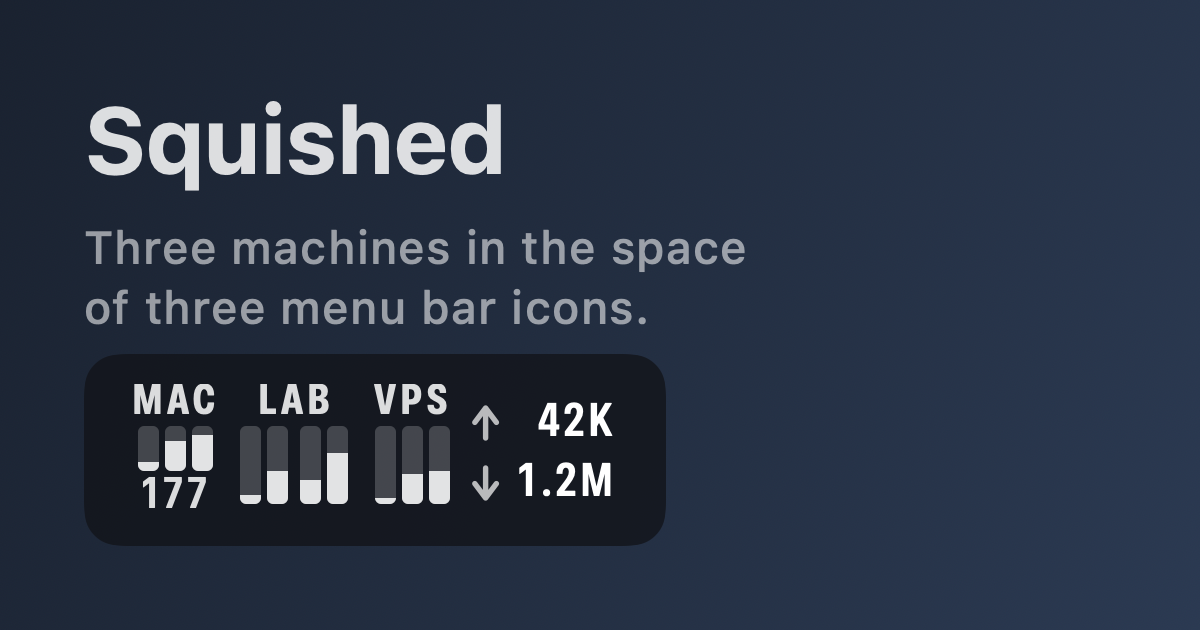
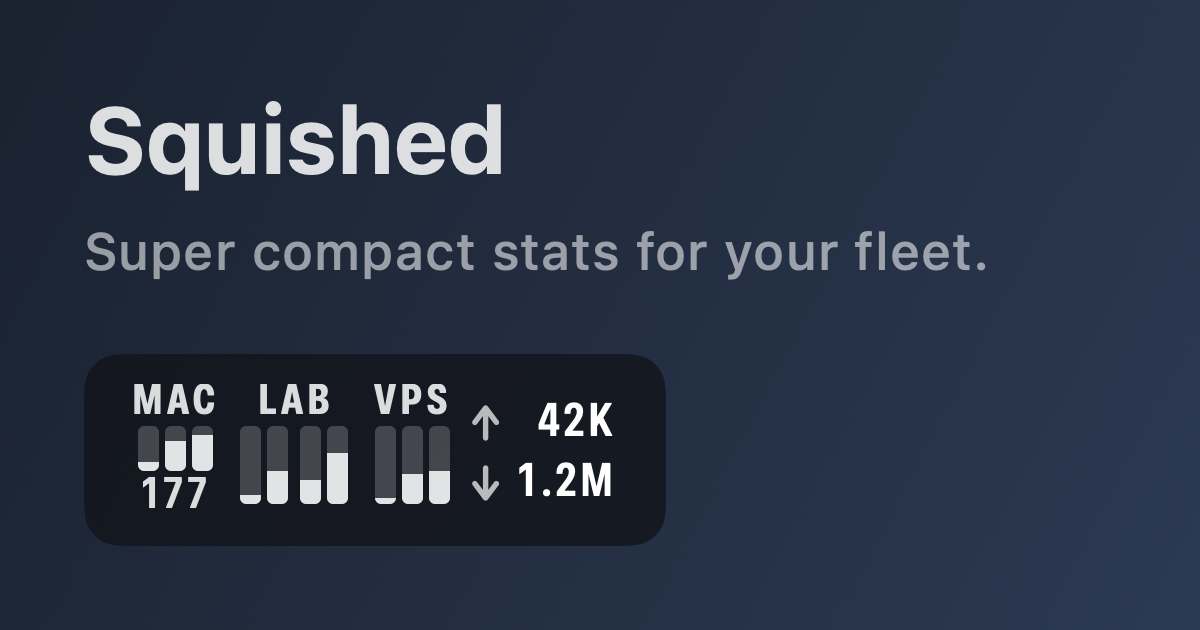
Lead with compact stats for your fleet

Changed region(s): [[0.0617, 0.3619, 0.8325, 0.5127]]

diff --git a/site/public/index.html b/site/public/index.html
@@ -13,8 +13,8 @@
 <link rel="apple-touch-icon" href="/apple-touch-icon.png">
 <meta property="og:type" content="website">
 <meta property="og:site_name" content="Squished">
-<meta property="og:title" content="Squished: three machines in the space of three menu bar icons">
-<meta property="og:description" content="Your menu bar is running out of room. Squished is a tiny macOS system monitor for your Mac and the Linux machines you SSH into. Free and open source.">
+<meta property="og:title" content="Squished: super compact stats for your fleet">
+<meta property="og:description" content="Your Mac and your Linux servers, in the space of three menu bar icons. A free, open-source system monitor for macOS.">
 <meta property="og:url" content="https://squished.andrewkim.me/">
 <meta property="og:image" content="https://squished.andrewkim.me/img/og.png">
 <meta property="og:image:width" content="1200">
@@ -217,9 +217,9 @@
 </header>
 
 <main>
-  <h1>Your menu bar is running out of room</h1>
-  <p class="sub">Squished fits three machines in the space of three icons.</p>
-  <p class="lede">Squished is a free, open-source system monitor for macOS. It shows CPU, memory and disk for your Mac and the Linux machines you already SSH into (a home server, a NAS, a VPS). Nothing gets installed on the servers.</p>
+  <h1>Super compact stats for your fleet</h1>
+  <p class="sub">Your Mac and your Linux servers, in the space of three menu bar icons.</p>
+  <p class="lede">Menu bar space runs out fast, and a system monitor is often one of the widest things in it. Squished is a free, open-source monitor for macOS that shows CPU, memory and disk for your Mac and the Linux machines you already SSH into (a home server, a NAS, a VPS). Nothing gets installed on the servers.</p>
   <div class="cta">
     <a class="button" href="https://github.com/andrewk17/squished">Get it on GitHub</a>
     <small>Free, MIT license. macOS 14 or later.</small>

diff --git a/Sources/Squished/UI/ReadmeImageRenderer.swift b/Sources/Squished/UI/ReadmeImageRenderer.swift
@@ -53,8 +53,8 @@ extension PanelVariantRenderer {
                 // the menu bar item stays sharp.
                 let card = VStack(alignment: .leading, spacing: 0) {
                     Text("Squished").font(.system(size: 15.5, weight: .bold))
-                    Text("Three machines in the space\nof three menu bar icons.")
-                        .font(.system(size: 7.6, weight: .medium))
+                    Text("Super compact stats for your fleet.")
+                        .font(.system(size: 8.6, weight: .medium))
                         .foregroundStyle(.secondary)
                         .lineSpacing(1)
                         .fixedSize(horizontal: false, vertical: true)

diff --git a/README.md b/README.md
@@ -1,6 +1,6 @@
 # Squished
 
-**Your menu bar is running out of room. Squished fits three machines in the space of three icons.**
+**Super compact stats for your fleet.** Your Mac and your Linux servers, in the space of three menu bar icons.
 
 <picture>
   <source media="(prefers-color-scheme: dark)" srcset="docs/images/hero-dark.png">
